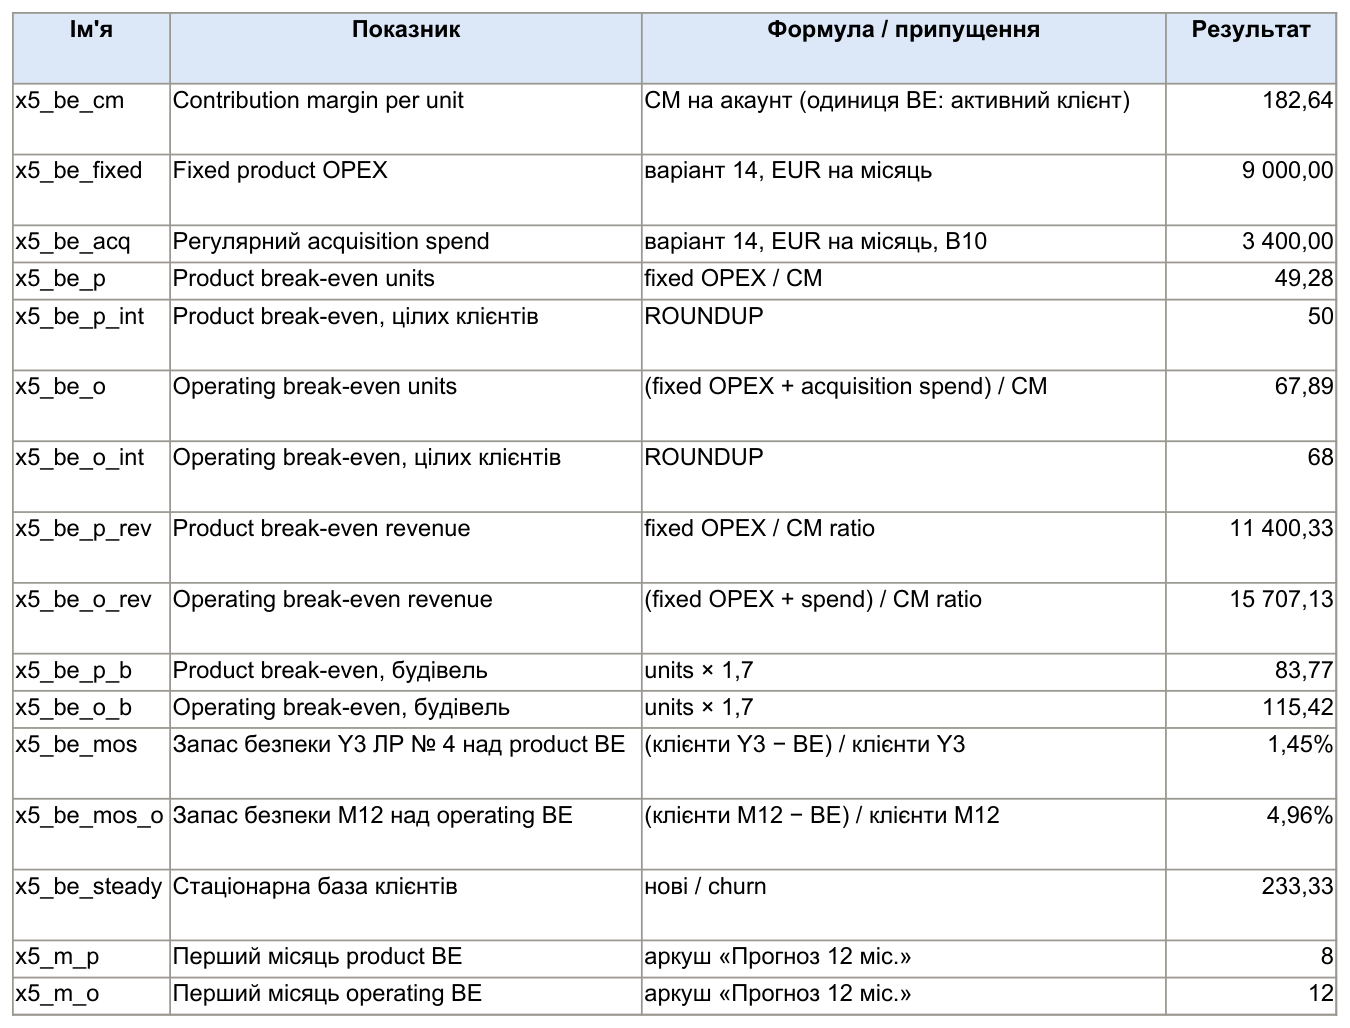
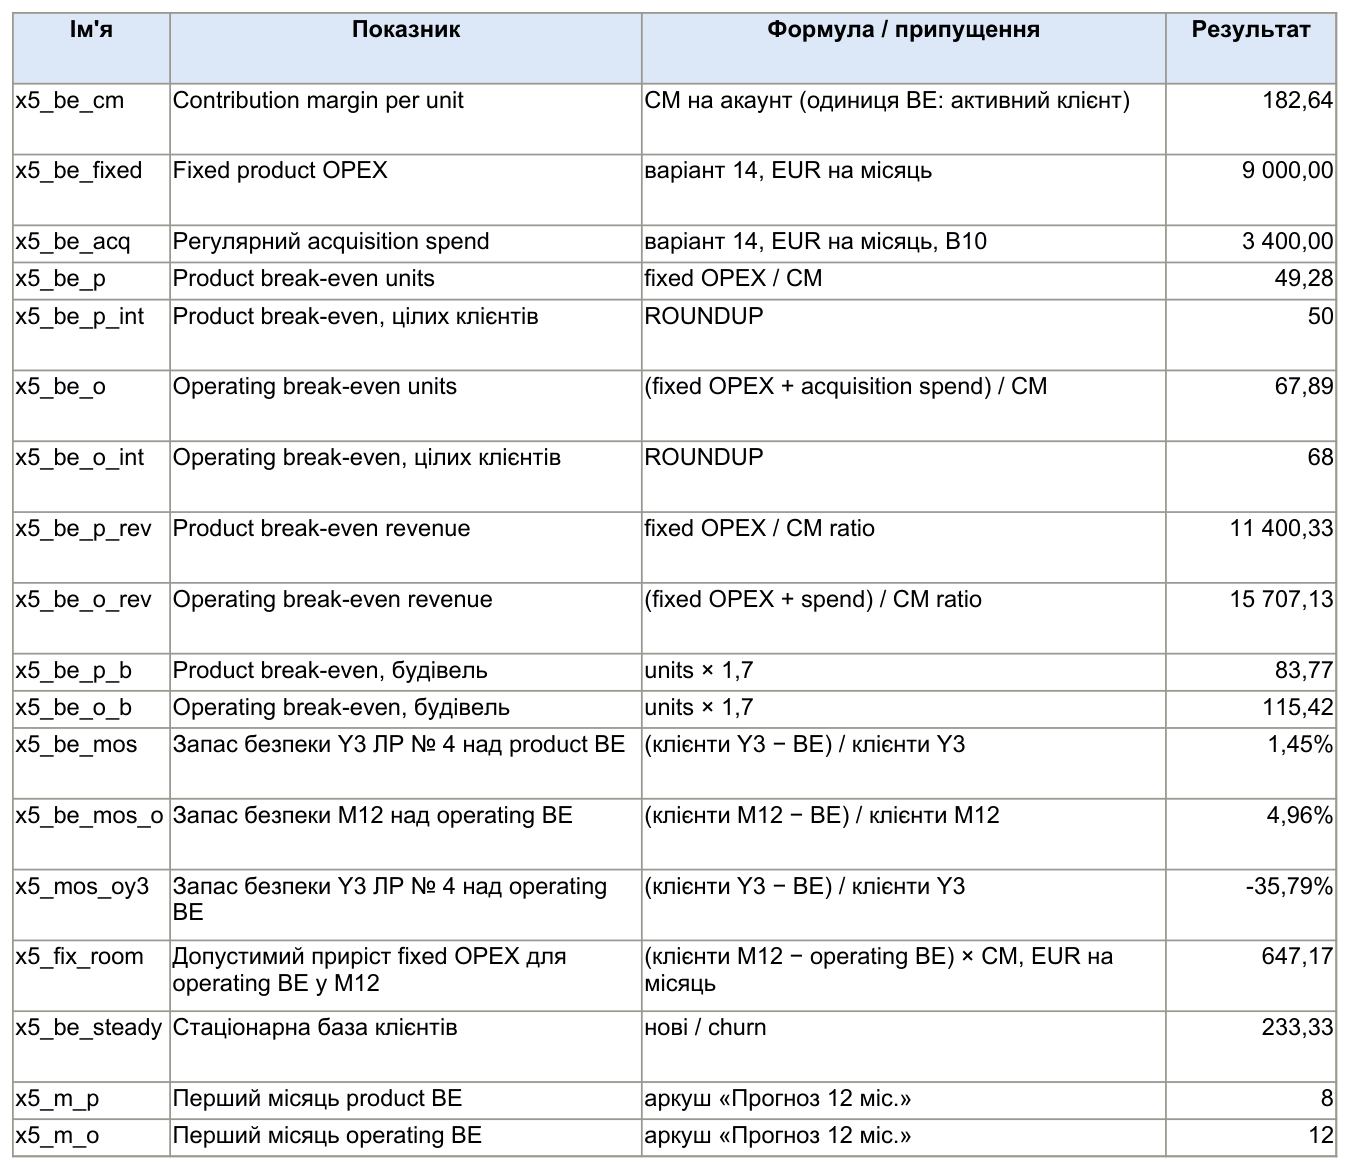
Lab 5 consistency: scale trigger of lab 3 fires in M8, cloud recalculated by buildings, fixed cost headroom, cash burn reconciliation with lab 3, CAC threshold 578 EUR, operating safety margin Y3 in workbook

diff --git a/econ_model.py b/econ_model.py
@@ -1575,6 +1575,54 @@ def fixed_opex_reconciliation(p5=P5):
     return {"support": sup, "change": chg, "cloud_fixed": cloud_fixed, "known": known, "other": p5["fixed_opex"] - known}
 
 
+def scale_trigger(p5=P5, step=None):
+    fc = forecast(p5)
+    rows = fc["rows"]
+    be = fc["be"]
+    u = unit_economics(p5)
+    rec = fixed_opex_reconciliation(p5)
+    per_bld = unit_variable_cost()[0]["Обробка і зберігання показів"]
+    budget = [y["op"] / 12 for y in tco()["cloud"]["years"]]
+    first = next(r["m"] for r in rows if r["buildings"] > P["buildings_y3"])
+    step = P["fixed_platform"] if step is None else step
+    q = {**p5, "fixed_opex": p5["fixed_opex"] + step}
+    be2 = breakeven(q)
+    m12 = rows[-1]
+    mp = fc["first_product"]
+    out = {"first": first, "label": rows[first - 1]["label"], "per_bld": per_bld, "cloud_fixed": rec["cloud_fixed"],
+           "budget": budget, "step": step, "m12_customers": m12["customers"],
+           "room_operating": (m12["customers"] - be["operating_units"]) * u["cm_pa"],
+           "room_product": (rows[mp - 1]["customers"] - be["product_units"]) * u["cm_pa"],
+           "cogs_cloud_pa": per_bld * avg_usage(), "step_product_units": be2["product_units"],
+           "step_operating_units": be2["operating_units"],
+           "step_month_product": be_month(be2["product_units"], p5["new_clients"], p5["churn"], p5["horizon"]),
+           "step_month_operating": be_month(be2["operating_units"], p5["new_clients"], p5["churn"], p5["horizon"]),
+           "step_mos_m12": safety_margin(m12["customers"], be2["operating_units"])}
+    for key, i, year in (("m8", first, 0), ("m12", p5["horizon"], 1)):
+        n = rows[i - 1]["buildings"]
+        out[key] = {"buildings": n, "variable": per_bld * n, "total": rec["cloud_fixed"] + per_bld * n,
+                    "budget": budget[year], "over": rec["cloud_fixed"] + per_bld * n - budget[year]}
+    return out
+
+
+def presale_reconciliation(p5=P5):
+    cb = cash_burn()
+    rel = cb["release_frac"]
+    i = next(k for k, f in enumerate(rel) if 0 < f < 1)
+    post_may = cb["post"][i] + cb["cloud_op"][i] - DEV_CLOUD[i]
+    pre_release = sum(cb["total"][:i]) + cb["total"][i] - post_may
+    rec = fixed_opex_reconciliation(p5)
+    lr3_month = cb["total"][i + 1]
+    lr5_month = p5["fixed_opex"] + p5["acq_spend"]
+    may_lr5 = rel[i] * p5["fixed_opex"]
+    baseline = mvp_budget()["baseline"]
+    return {"may_frac": rel[i], "may_post": cb["post"][i], "may_cloud": cb["cloud_op"][i] - DEV_CLOUD[i], "may_lr3": post_may,
+            "may_lr5": may_lr5, "lr3_month": lr3_month, "lr3_support": cb["post"][i + 1], "lr3_cloud": cb["cloud_op"][i + 1],
+            "lr5_month": lr5_month, "cloud_fixed": rec["cloud_fixed"], "other": rec["other"], "acq": p5["acq_spend"],
+            "pre_release": pre_release, "baseline": baseline, "r2_left": cb["reserve_left"],
+            "delta": may_lr5 - (baseline - pre_release)}
+
+
 LR5_ASSUMPTIONS = [
     ("B1", "Обсяг верхнього рівня воронки", "70 кваліфікованих лідів на місяць (дзвінок з розрахунком економії відбувся)", "П: обов'язкове власне припущення; CPL 3 400 / 70 = 48,57 EUR", "воронка, CPL"),
     ("B2", "Activation rate", "30% лідів запускають безкоштовний пілот 3 міс. на 1 будівлі", "П: обов'язкове власне припущення; поріг A10 ЛР № 1", "воронка"),

diff --git a/lab5/build_lab5.py b/lab5/build_lab5.py
@@ -217,6 +217,8 @@ BE_ROWS = [
     ("x5_be_o_b", "Operating break-even, будівель", "units × 1,7", "=x5_be_o*x5_usage", "0.00"),
     ("x5_be_mos", "Запас безпеки Y3 ЛР № 4 над product BE", "(клієнти Y3 − BE) / клієнти Y3", "=(x5_clients-x5_be_p)/x5_clients", "0.00%"),
     ("x5_be_mos_o", "Запас безпеки M12 над operating BE", "(клієнти M12 − BE) / клієнти M12", "=('Прогноз 12 міс.'!$F$13-x5_be_o)/'Прогноз 12 міс.'!$F$13", "0.00%"),
+    ("x5_mos_oy3", "Запас безпеки Y3 ЛР № 4 над operating BE", "(клієнти Y3 − BE) / клієнти Y3", "=(x5_clients-x5_be_o)/x5_clients", "0.00%"),
+    ("x5_fix_room", "Допустимий приріст fixed OPEX для operating BE у M12", "(клієнти M12 − operating BE) × CM, EUR на місяць", "=('Прогноз 12 міс.'!$F$13-x5_be_o)*x5_be_cm", "#,##0.00"),
     ("x5_be_steady", "Стаціонарна база клієнтів", "нові / churn", "=x5_new/x5_churn", "0.00"),
 ]
 
@@ -419,7 +421,8 @@ def verify(path):
     for key, val in (("x5_be_p", b["product_units"]), ("x5_be_o", b["operating_units"]), ("x5_be_p_rev", b["product_revenue"]),
                      ("x5_be_o_rev", b["operating_revenue"]), ("x5_be_p_int", b["product_units_int"]),
                      ("x5_be_o_int", b["operating_units_int"]), ("x5_be_steady", f["steady"]),
-                     ("x5_be_mos", b["mos_product_y3"]), ("x5_be_mos_o", f["mos_operating_m12"])):
+                     ("x5_be_mos", b["mos_product_y3"]), ("x5_be_mos_o", f["mos_operating_m12"]),
+                     ("x5_mos_oy3", b["mos_operating_y3"]), ("x5_fix_room", m.scale_trigger()["room_operating"])):
         checks[key] = (be[f"D{LAYOUT['be_' + key]}"].value, val)
     for i, row in enumerate(f["rows"], start=2):
         checks[f"fc_cust_{i - 1}"] = (fc[f"F{i}"].value, row["customers"])
